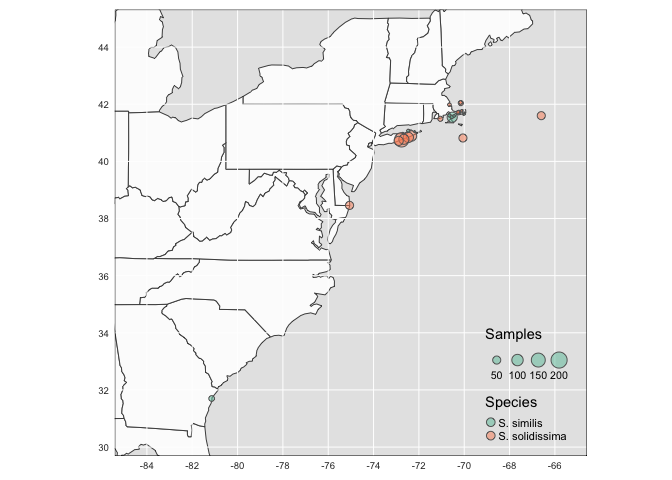
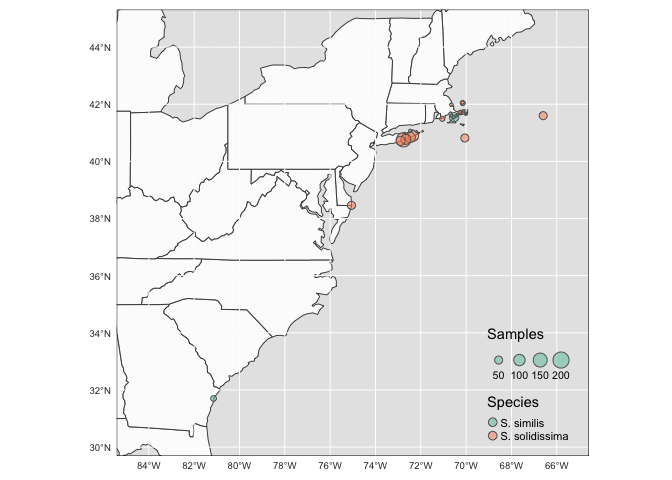
Playing with additional figure options

diff --git a/Scripts/Spisula_Map_QReport_2020_Dec.md b/Scripts/Spisula_Map_QReport_2020_Dec.md
@@ -135,13 +135,13 @@ eastcoast=st_bbox(c(xmin = -85, xmax = -65,
 #Base
 map_1 <- tm_shape(us_states, bbox=eastcoast) +  
   tm_fill(col = "grey99") + tm_borders(col="grey30") + tm_layout(bg.color = "grey90") +
-  tm_grid(col="white") +
+  tm_graticules(col="white") +
   tm_shape(spissites) +  
   tm_symbols(size = 1, col = "Species", alpha = 0.5,  palette = "Set2", border.alpha = 0.2)
 #Size = number of samples
 map_2 <- tm_shape(us_states, bbox=eastcoast) +  
   tm_fill(col = "grey99") + tm_borders(col="grey30") + tm_layout(bg.color = "grey90") +
-  tm_grid(col="white") +
+  tm_graticules(col="white") +
   tm_shape(spissites) +  
   tm_symbols(size = "Samples", col = "Species", alpha = 0.5,  palette = "Set2", border.alpha = NA)
 #Also changed border alpha to default
@@ -150,14 +150,14 @@ map_2 <- tm_shape(us_states, bbox=eastcoast) +
 #By shapes
 map_3 <- tm_shape(us_states, bbox=eastcoast) +  
   tm_fill(col = "grey99") + tm_borders(col="grey30") + tm_layout(bg.color = "grey90") +
-  tm_grid(col="white") +
+  tm_graticules(col="white") +
   tm_shape(spissites) +  
   tm_symbols(size = 1, shape = "Species",  alpha = 0.7,  col= "Samples", palette = "Reds")
 
 #Try to change size and jitter (for sites with both)
 map_4 <- tm_shape(us_states, bbox=eastcoast) +  
   tm_fill(col = "grey99") + tm_borders(col="grey30") + tm_layout(bg.color = "grey90") +
-  tm_grid(col="white") +
+  tm_graticules(col="white") +
   tm_shape(spissites) +  
   tm_symbols(size = "Samples", col = "Species", alpha = 0.7,  palette = "Set2",
              scale = 2.5, jitter = 0.01) 
@@ -168,7 +168,7 @@ map_4 <- tm_shape(us_states, bbox=eastcoast) +
 #Circles not filled in
 map_5 <- tm_shape(us_states, bbox=eastcoast) +  
   tm_fill(col = "grey99") + tm_borders(col="grey30") + tm_layout(bg.color = "grey90") +
-  tm_grid(col="white") +
+  tm_graticules(col="white") +
   tm_shape(spissites) +  
   tm_symbols(size = "Samples", alpha = 1, col = "Species",shape=1, border.lwd = 2, palette = "Set2",
              scale = 2.5, jitter = 0.01) 
@@ -177,9 +177,15 @@ map_5 <- tm_shape(us_states, bbox=eastcoast) +
 #map_1 at larger scale
 map_6 <- tm_shape(us_states, bbox=eastcoast) +  
   tm_fill(col = "grey99") + tm_borders(col="grey30") + tm_layout(bg.color = "grey90") +
-  tm_grid(col="white") +
+  tm_graticules(col="white") +
   tm_shape(spissites) +  
   tm_symbols(size = 1, jitter= 0.01 ,col = "Species",  palette = "Set2",alpha = 0.6,border.lwd = 0.7,  border.alpha = 0.5, scale = 1.5)
+
+map_7 <- tm_shape(us_states, bbox=eastcoast) +  
+  tm_fill(col = "grey99") + tm_borders(col="grey30") + tm_layout(bg.color = "grey94") +
+  tm_graticules(col="white") +
+  tm_shape(spissites) +  
+  tm_symbols(size = 1, jitter= 0.1, shape=1 ,col = "Species",  palette = "Set2",border.lwd = 2, scale = 1.5)
 
 #tmap_arrange(map_1,map_2,map_3)
 
@@ -223,3 +229,23 @@ map_6
 ```
 
 ![](Spisula_Map_QReport_2020_Dec_files/figure-gfm/finaladjust-6.png)<!-- -->
+
+``` r
+#Base with empty circles
+map_7
+```
+
+![](Spisula_Map_QReport_2020_Dec_files/figure-gfm/finaladjust-7.png)<!-- -->
+
+``` r
+#Filled in small circles
+map_1 <- 2
+
+tm_shape(us_states, bbox=eastcoast) +  
+  tm_fill(col = "grey99") + tm_borders(col="grey30") + tm_layout(bg.color = "grey90") +
+  tm_grid(col="white") +
+  tm_shape(spissites) +  
+  tm_symbols(size = 0.2, jitter=0.05,col = "Species",  palette = "Set2") 
+```
+
+![](Spisula_Map_QReport_2020_Dec_files/figure-gfm/finaladjust-8.png)<!-- -->
